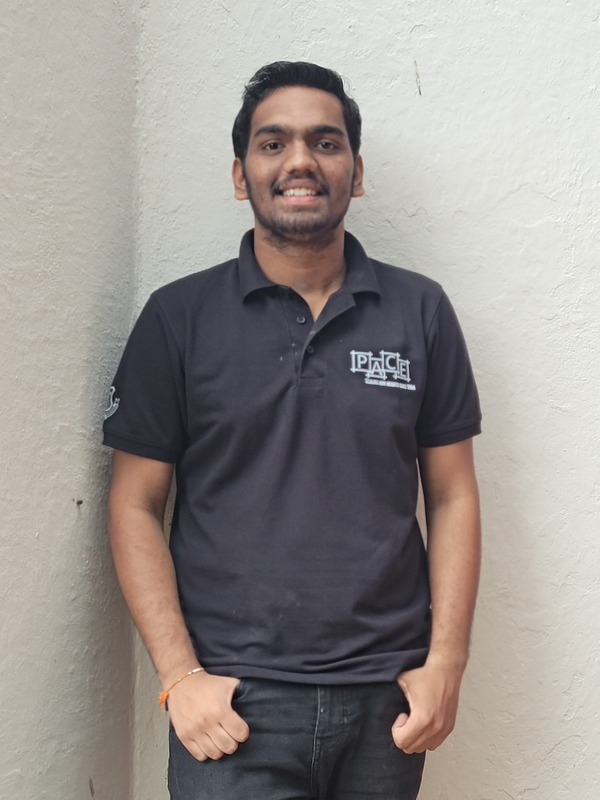
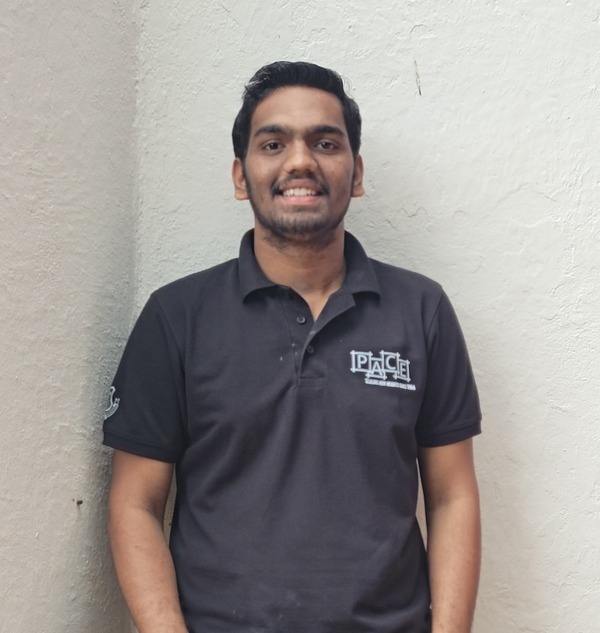
new images

diff --git a/src/constants/boardMembers.js b/src/constants/boardMembers.js
@@ -16,7 +16,7 @@ export const boardMembersChief = [
   { post: "Chief Skid-P & Chief Web Developer",fullName: "Piyush Dawkhare",    imgUrl: "/assets/Cheif_Board/Piyush_Dawkhare.png"     },
   { post: "Chief Skid-P",                      fullName: "Manisha Shinde",     imgUrl: "/assets/Cheif_Board/Manisha_Shinde.jpg"    },
   { post: "Chief Skid-P",                      fullName: "Dhanshri Mali",      imgUrl: "/assets/Cheif_Board/Dhanshri_Mali.jpg"     },
-  { post: "Chief Skid-P",                      fullName: "Pratik Kapre",       imgUrl: "/assets/Cheif_Board/Pratik_Kapre0.jpg"    },
+  { post: "Chief Skid-P",                      fullName: "Pratik Kapre",       imgUrl: "/assets/Cheif_Board/Pratik_Kapre.jpg"    },
   //{ post: "Chief Skid-W",                      fullName: "Samruddhi Shinde",   imgUrl: "/assets/Cheif_Board/Samruddhi_Shinde.jpg"       },
   { post: "Creative Team Head",                fullName: "Rajvardhan Kadam",   imgUrl: "/assets/Cheif_Board/Rajvardhan_Kadam.png"       },
   { post: "Creative Team Head",                fullName: "Chaitrali Jadhav",   imgUrl: "/assets/Cheif_Board/Chaitrali_Jadhav.jpg"      },
